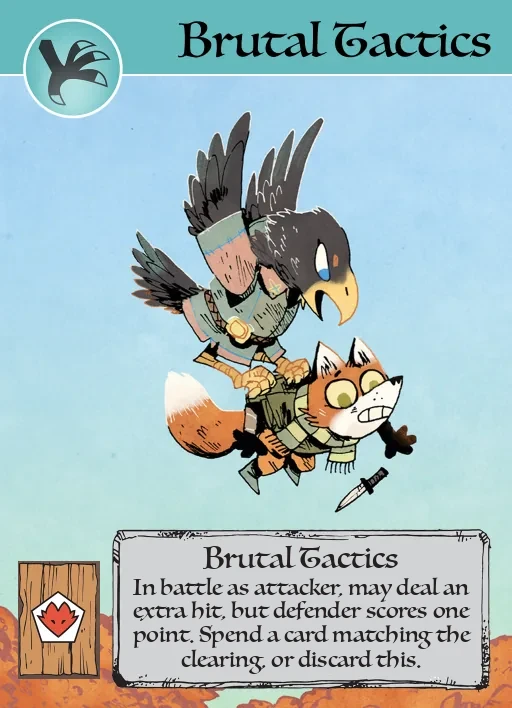
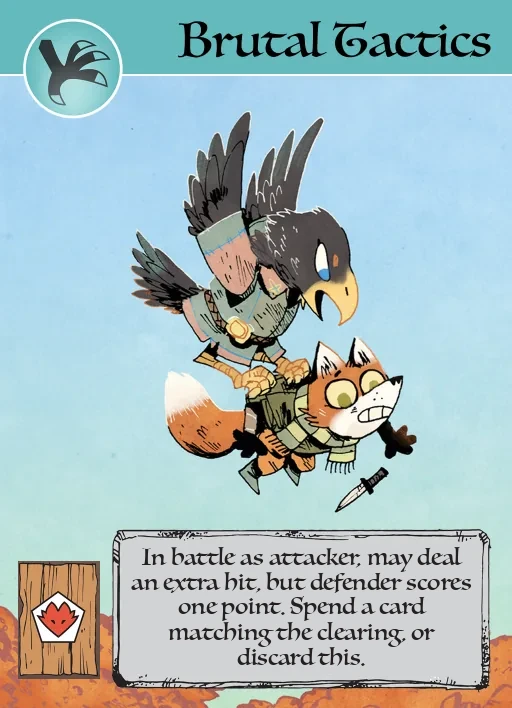
Capitalists and Anarchists: Stand and Deliver! at the start of the next Birdsong; no titles in the new text boxes
Claude-Session: https://claude.ai/code/session_01UK1GfuwGcwJqaNZ9YxxMmj

Changed region(s): [[0.25, 0.7458, 0.9375, 0.9633]]

diff --git a/haunt-roll-fail/root/tools/capitalists-art.py b/haunt-roll-fail/root/tools/capitalists-art.py
@@ -12,17 +12,17 @@ from PIL import Image, ImageDraw, ImageFont
 
 font, deck, out = sys.argv[1:4]
 
-# card, plank donor (a card with the new cost), title (None: no title, as printed), text, tan box
+# card, plank donor (a card with the new cost), title (None: no title, like the newer printed layout), text, tan box
 CARDS = [
-    ("command-warren", "a-visit-to-friends", "Command Warren", "At start of Daylight, may initiate a battle. Spend a card matching its clearing, or discard this.", False),
-    ("cobbler", "a-visit-to-friends", "Cobbler", "At start of Evening, may take a move. Spend a card matching the clearing moved from, or discard this.", False),
+    ("command-warren", "a-visit-to-friends", None, "At start of Daylight, may initiate a battle. Spend a card matching its clearing, or discard this.", False),
+    ("cobbler", "a-visit-to-friends", None, "At start of Evening, may take a move. Spend a card matching the clearing moved from, or discard this.", False),
     ("better-burrow-bank", "a-visit-to-friends", None, "At start of Birdsong, you may return this card to your hand to draw one card. If you do, choose an enemy to draw one card.", False),
-    ("brutal-tactics", "armorers", "Brutal Tactics", "In battle as attacker, may deal an extra hit, but defender scores one point. Spend a card matching the clearing, or discard this.", False),
-    ("stand-and-deliver", "codebreakers", "Stand and Deliver!", "Take a random card from an enemy. They must draw one card. Then discard this card.", True),
-    ("tax-collector", "saboteurs", "Tax Collector", "Remove a warrior of your faction from a clearing on the map to draw two cards, then discard.", True),
-    ("scouting-party", "codebreakers", "Scouting Party", "As attacker in battle, may discard this to cancel an ambush card played against you.", False),
-    ("royal-claim", None, "Royal Claim", "In Birdsong, must discard this to score one point per clearing you rule.", False),
-    ("codebreakers", None, "Codebreakers", "Look at another player's hand, then discard.", True),
+    ("brutal-tactics", "armorers", None, "In battle as attacker, may deal an extra hit, but defender scores one point. Spend a card matching the clearing, or discard this.", False),
+    ("stand-and-deliver", "codebreakers", None, "At start of Birdsong, take a random card from an enemy. They must draw one card. Then discard this card.", False),
+    ("tax-collector", "saboteurs", None, "Remove a warrior of your faction from a clearing on the map to draw two cards, then discard.", True),
+    ("scouting-party", "codebreakers", None, "As attacker in battle, may discard this to cancel an ambush card played against you.", False),
+    ("royal-claim", None, None, "In Birdsong, must discard this to score one point per clearing you rule.", False),
+    ("codebreakers", None, None, "Look at another player's hand, then discard.", True),
 ]
 
 INK = (35, 31, 32)

diff --git a/CLAUDE.md b/CLAUDE.md
@@ -643,8 +643,8 @@ server. No session can reach the server, and none needs to.
   2026-11-19) keeps the base deck's items, ambushes, dominances, Armorers and Sappers, puts Dawn and Dusk's three Services in place of the
   Favors, and changes the other effects (`Deck.capitalists`; rules in `root/deck-capitalists.scala`, `CapitalistsDeckExpansion`, its header
   lists them): Command Warren, Cobbler and Brutal Tactics cost one card and are paid for at each use with a card matching the clearing (a bird
-  matches) or by discarding them; Better Burrow Bank (1 rabbit) is optional and goes back to hand; Stand and Deliver! (1 mouse; the enemy draws a card, no point), Tax Collector
-  (1 of any suit, draws two) and Codebreakers are used once when crafted; Scouting Party (1 mouse) is discarded to cancel one ambush; Royal Claim
+  matches) or by discarding them; Better Burrow Bank (1 rabbit) is optional and goes back to hand; Stand and Deliver! (1 mouse) must be used at the start of the next Birdsong
+  and is discarded, the enemy drawing a card instead of scoring; Tax Collector (1 of any suit, draws two) and Codebreakers are used once when crafted; Scouting Party (1 mouse) is discarded to cancel one ambush; Royal Claim
   must be used at the next Birdsong. The effects are the base deck's objects, changed where `options.has(CapitalistsDeck)` (`turn.scala`,
   `battle.scala`, the effect hints in `root/ui.scala`). Pictures `card/capitalists/ca-*` by `root/tools/capitalists-art.py` (the base card
   with another card's cost plank and new text, a tan box for the once-used ones). `ReplayCheck <games> base capitalists` plays it;
